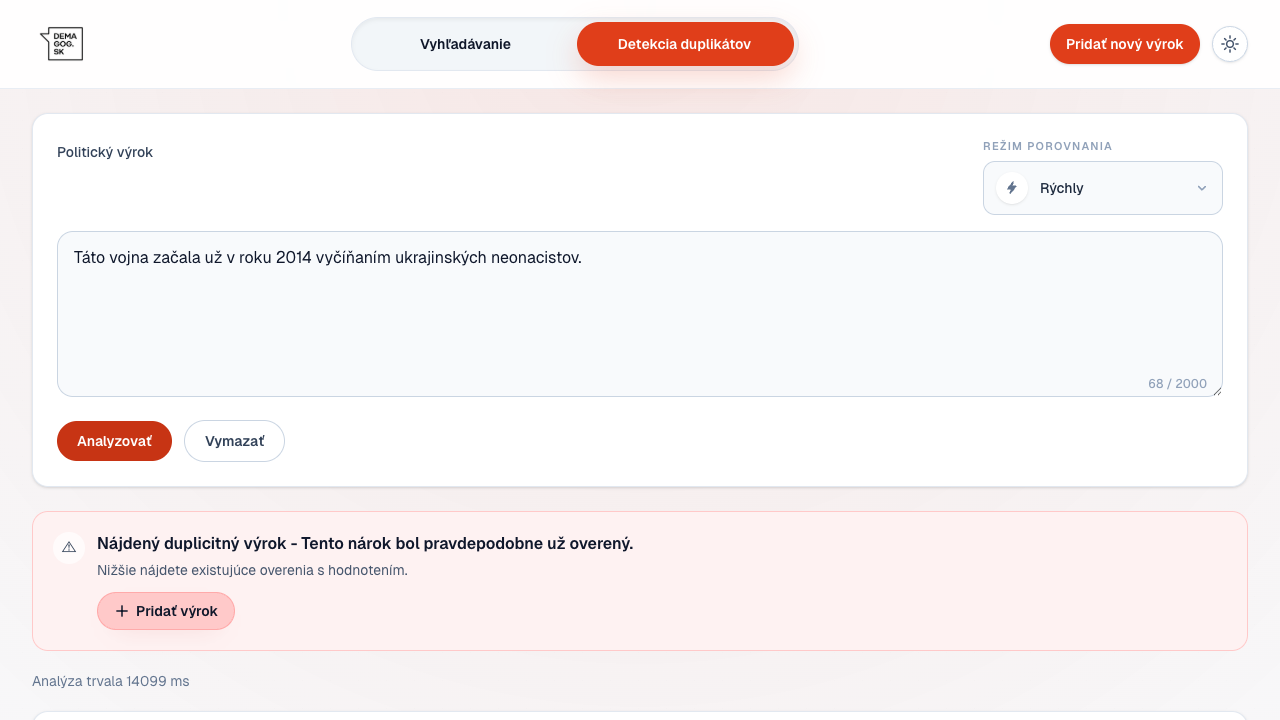
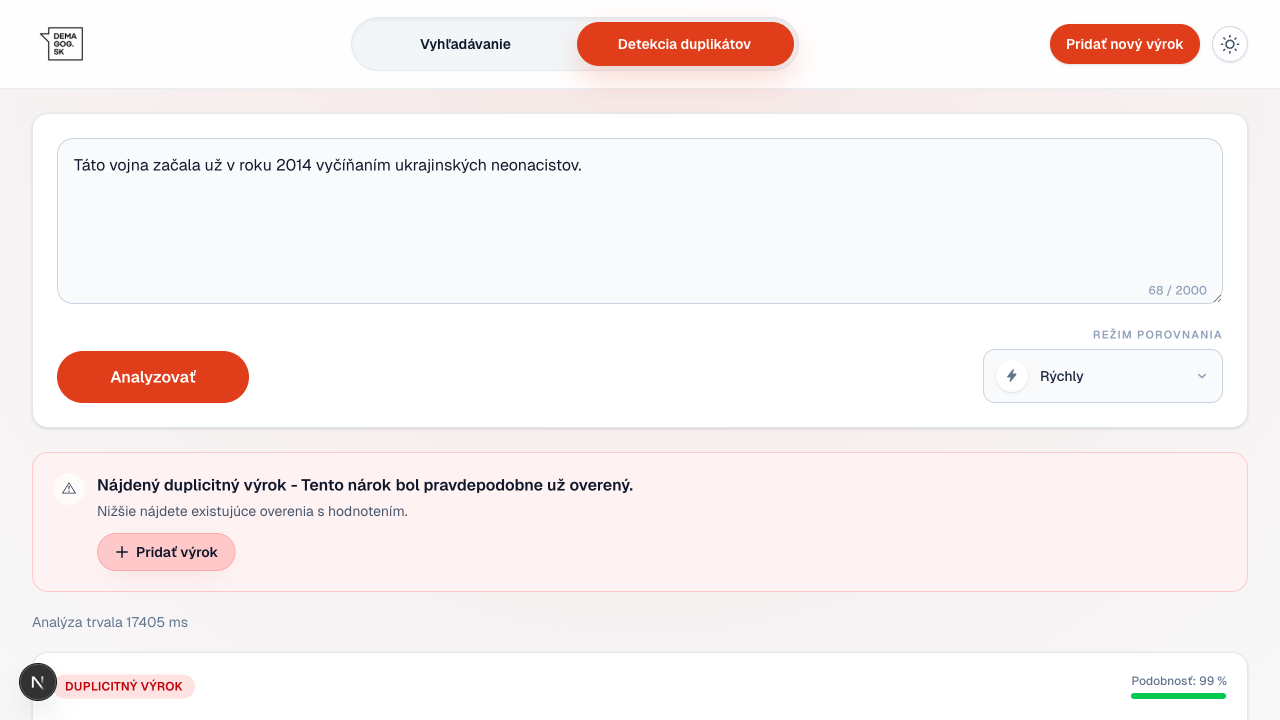
Refine onboarding copy and refresh detector and research screenshots
Rewrite the onboarding search, detect, and research messaging to match the README tutorial voice and make the product guidance more confident and specific. The first slide now uses clearer usage rules, the search slide explains how natural-language queries and filters work, the detector slide points users to Pridať nový výrok when nothing usable exists, and the Preskúmať slide explicitly explains where the workspace opens and what Demagog material it surfaces.

Adjust the slide 1 explainer layout in HomeOnboarding so the numbered points align cleanly when the copy wraps, using consistent card spacing and top-aligned badges instead of the looser row layout.

Retake the detector and research workspace media with Playwright at 1280x720 so onboarding screenshots match the current UI framing and the refreshed workspace headings now visible in the product.

Why: the previous onboarding copy sounded tentative and the screenshots had drifted from the live interface, which made the onboarding feel less productized than the rest of the experience.

Known issues: the worktree still contains unrelated in-progress changes in scripts/title-clanky.ts and src/app/api/search/route.ts; focused onboarding tests passed, but broader repo checks were not used as a gate for this commit because there are existing unrelated search/type issues on the branch.

diff --git a/src/components/home/homeOnboardingSteps.tsx b/src/components/home/homeOnboardingSteps.tsx
@@ -27,9 +27,9 @@ export const HOME_ONBOARDING_STEPS: HomeOnboardingStep[] = [
     eyebrow: "1. Základ",
     title: "Dva režimy. Jeden jednoduchý začiatok.",
     body: [
-      "Vyhľadávanie je na tému, meno, citát alebo normálnu otázku.",
-      "Detekcia duplicít je na nový konkrétny výrok.",
-      "Nemusíte písať presné kľúčové slová. Search sa správa skoro ako chat a filtre sa často doplnia samy.",
+      "Ak neviete, kde začať, začnite vo Vyhľadávaní. Rozumie témam, menám, citátom aj normálnym otázkam.",
+      "Detekcia duplicít použite vtedy, keď už máte konkrétny nový výrok a chcete zistiť, či ho Demagog už riešil.",
+      "Pri zhode pokračujte cez Preskúmať. Ak nič nesedí, prejdite na Pridať nový výrok.",
     ],
     media: {
       kind: "text",
@@ -40,9 +40,9 @@ export const HOME_ONBOARDING_STEPS: HomeOnboardingStep[] = [
     eyebrow: "2. Vyhľadávanie",
     title: "Napíšte otázku tak, ako by ste ju povedali kolegovi.",
     body: [
-      "Do vyhľadávania môžete napísať tému, meno, citát alebo celú otázku.",
-      "Systém si z textu často sám doplní filtre.",
-      "Keď nájdete dobrý výsledok, pokračujte cez Preskúmať.",
+      "Vyhľadávanie prijíma tému, meno, citát aj celú otázku. Nepotrebujete presnú formuláciu z archívu.",
+      "Systém z dopytu automaticky rozpozná relevantné filtre a zoradí výsledky podľa toho, čo je najbližšie vášmu zadaniu.",
+      "Keď narazíte na relevantný výsledok, cez Preskúmať otvoríte pracovný pohľad a pokračujete bez ďalšieho hľadania.",
     ],
     media: {
       kind: "image",
@@ -55,33 +55,34 @@ export const HOME_ONBOARDING_STEPS: HomeOnboardingStep[] = [
   {
     id: "detect",
     eyebrow: "3. Detekcia duplicít",
-    title: "Sem vložte celý nový výrok.",
+    title: "Najprv overte, či sa nový výrok už neopakuje.",
     body: [
-      "Použite to vtedy, keď už máte konkrétny nový výrok.",
-      "Rýchly je na prvé posúdenie. Prieskum je na širší kontext.",
-      "Výsledok môže byť duplicitný, súvisiaci alebo nový.",
+      "Detekcia duplicít je určená pre konkrétny nový výrok, pri ktorom chcete rýchlo zistiť, či už má použiteľné staršie overenie.",
+      "Rýchly režim ukáže najbližšie zhody okamžite. Prieskum pridá širší kontext a súvisiace prípady.",
+      "Ak systém označí výrok ako nový, pokračujte na Pridať nový výrok a otvorte formulár s predvyplneným textom.",
     ],
     media: {
       kind: "image",
       src: "/onboarding/step-03-detect-light.png",
-      alt: "Detekcia duplicít s vloženým výrokom, rýchlym režimom a zobrazenými zhodami.",
-      caption: "Rýchly režim ukáže najbližšie zhody ešte pred otvorením širšieho prieskumu.",
+      alt: "Detekcia duplicít s vloženým výrokom, rýchlym režimom a výsledkom s akciou Pridať výrok.",
+      caption: "Detekcia rýchlo ukáže, či už existuje zhoda, alebo máte pokračovať na pridanie nového výroku.",
       aspectRatio: "16 / 9",
     },
   },
   {
     id: "research",
     eyebrow: "4. Preskúmať",
-    title: "Keď chcete ísť ďalej, otvorte detail.",
+    title: "Kliknite na Preskúmať a otvorte pracovný pohľad.",
     body: [
-      "Preskúmať otvorí pracovný pohľad s analýzou, článkami a zdrojmi.",
-      "Tu už nepokračujete len v hľadaní. Tu reálne pracujete s nájdeným výsledkom.",
+      "Tlačidlo Preskúmať nájdete vo Vyhľadávaní aj pri výsledkoch Detekcie duplicít.",
+      "Otvorí pracovný pohľad s analýzou výroku, súvisiacimi článkami Demagogu a podkladmi, z ktorých analýza vychádza.",
+      "Je to najrýchlejší spôsob, ako prejsť zo zoznamu výsledkov do samotnej práce s nájdeným výrokom.",
     ],
     media: {
       kind: "image",
       src: "/onboarding/step-04-research-light.png",
-      alt: "Pracovný detail výroku s analýzou, článkami a zdrojmi v rozhraní Demagogu.",
-      caption: "Detail je miesto, kde sa z výsledku stáva pracovný podklad pre analytika.",
+      alt: "Pracovný pohľad Preskúmať s analýzou výroku, článkami Demagogu a overovacími podkladmi.",
+      caption: "Preskúmať sústreďuje analýzu, články Demagogu a overovacie podklady na jednom mieste.",
       aspectRatio: "16 / 9",
     },
   },

diff --git a/src/components/home/HomeOnboarding.tsx b/src/components/home/HomeOnboarding.tsx
@@ -103,26 +103,31 @@ function TextStage() {
       </div>
 
       <div className="rounded-[1.75rem] border border-slate-200 bg-white px-6 py-5 shadow-[0_24px_60px_-40px_rgba(15,23,42,0.25)] dark:border-slate-800 dark:bg-slate-900">
-        <div className="grid gap-4 sm:grid-cols-3">
+        <div className="grid gap-3 sm:grid-cols-3">
           {[
             {
               label: "1",
-              title: "Napíšte otázku alebo vložte výrok",
+              title: "Začnite prirodzenou otázkou alebo témou.",
             },
             {
               label: "2",
-              title: "Sledujte filtre, zhody a výsledky",
+              title: "Sledujte filtre, zhody a relevantné výsledky.",
             },
             {
               label: "3",
-              title: "Keď treba, pokračujte cez Preskúmať alebo Pridať nový výrok",
+              title: "Pokračujte cez Preskúmať alebo Pridať nový výrok.",
             },
           ].map((item) => (
-            <div key={item.label} className="flex gap-3">
-              <div className="flex h-8 w-8 shrink-0 items-center justify-center rounded-full bg-slate-100 text-sm font-semibold text-slate-700 dark:bg-slate-800 dark:text-slate-200">
+            <div
+              key={item.label}
+              className="grid grid-cols-[2rem_minmax(0,1fr)] items-start gap-3 rounded-[1.25rem] border border-slate-200 bg-slate-50 px-4 py-4 dark:border-slate-800 dark:bg-slate-950/60"
+            >
+              <div className="flex h-8 w-8 shrink-0 items-center justify-center rounded-full bg-white text-sm font-semibold text-slate-700 shadow-sm dark:bg-slate-900 dark:text-slate-200">
                 {item.label}
               </div>
-              <p className="text-sm leading-6 text-slate-600 dark:text-slate-300">{item.title}</p>
+              <p className="pt-0.5 text-sm leading-6 text-slate-600 dark:text-slate-300">
+                {item.title}
+              </p>
             </div>
           ))}
         </div>
